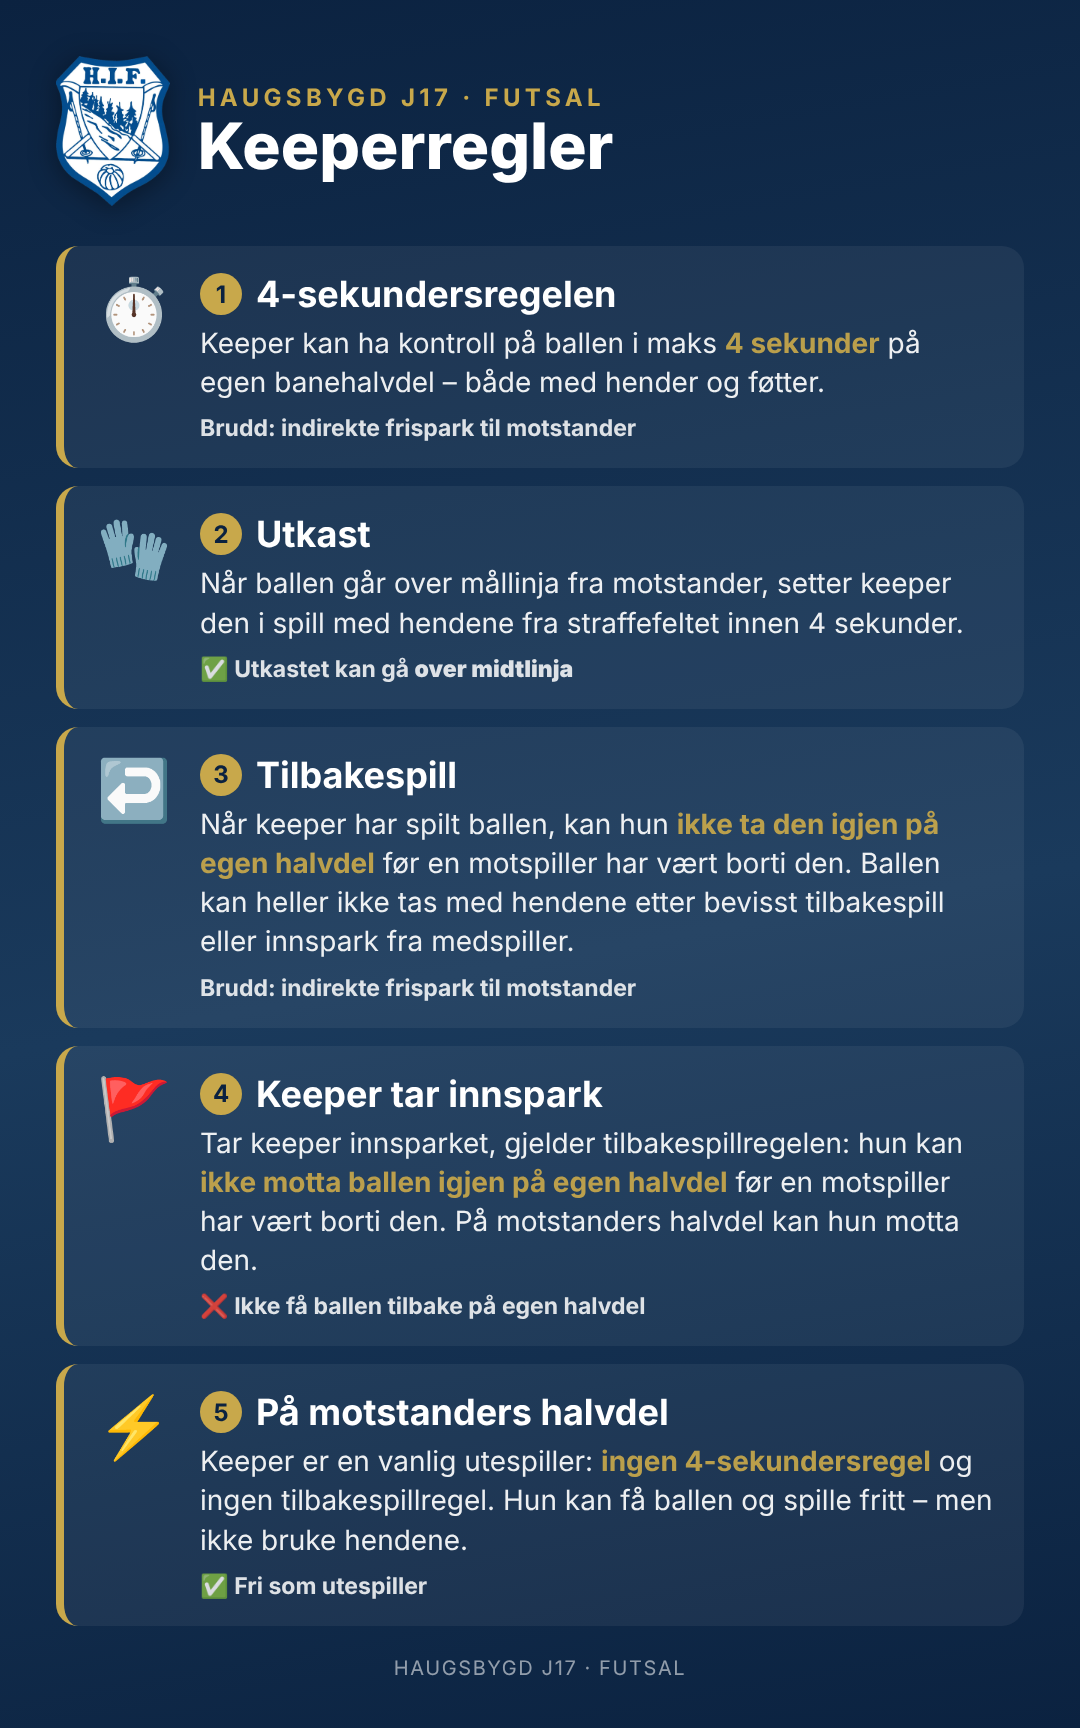
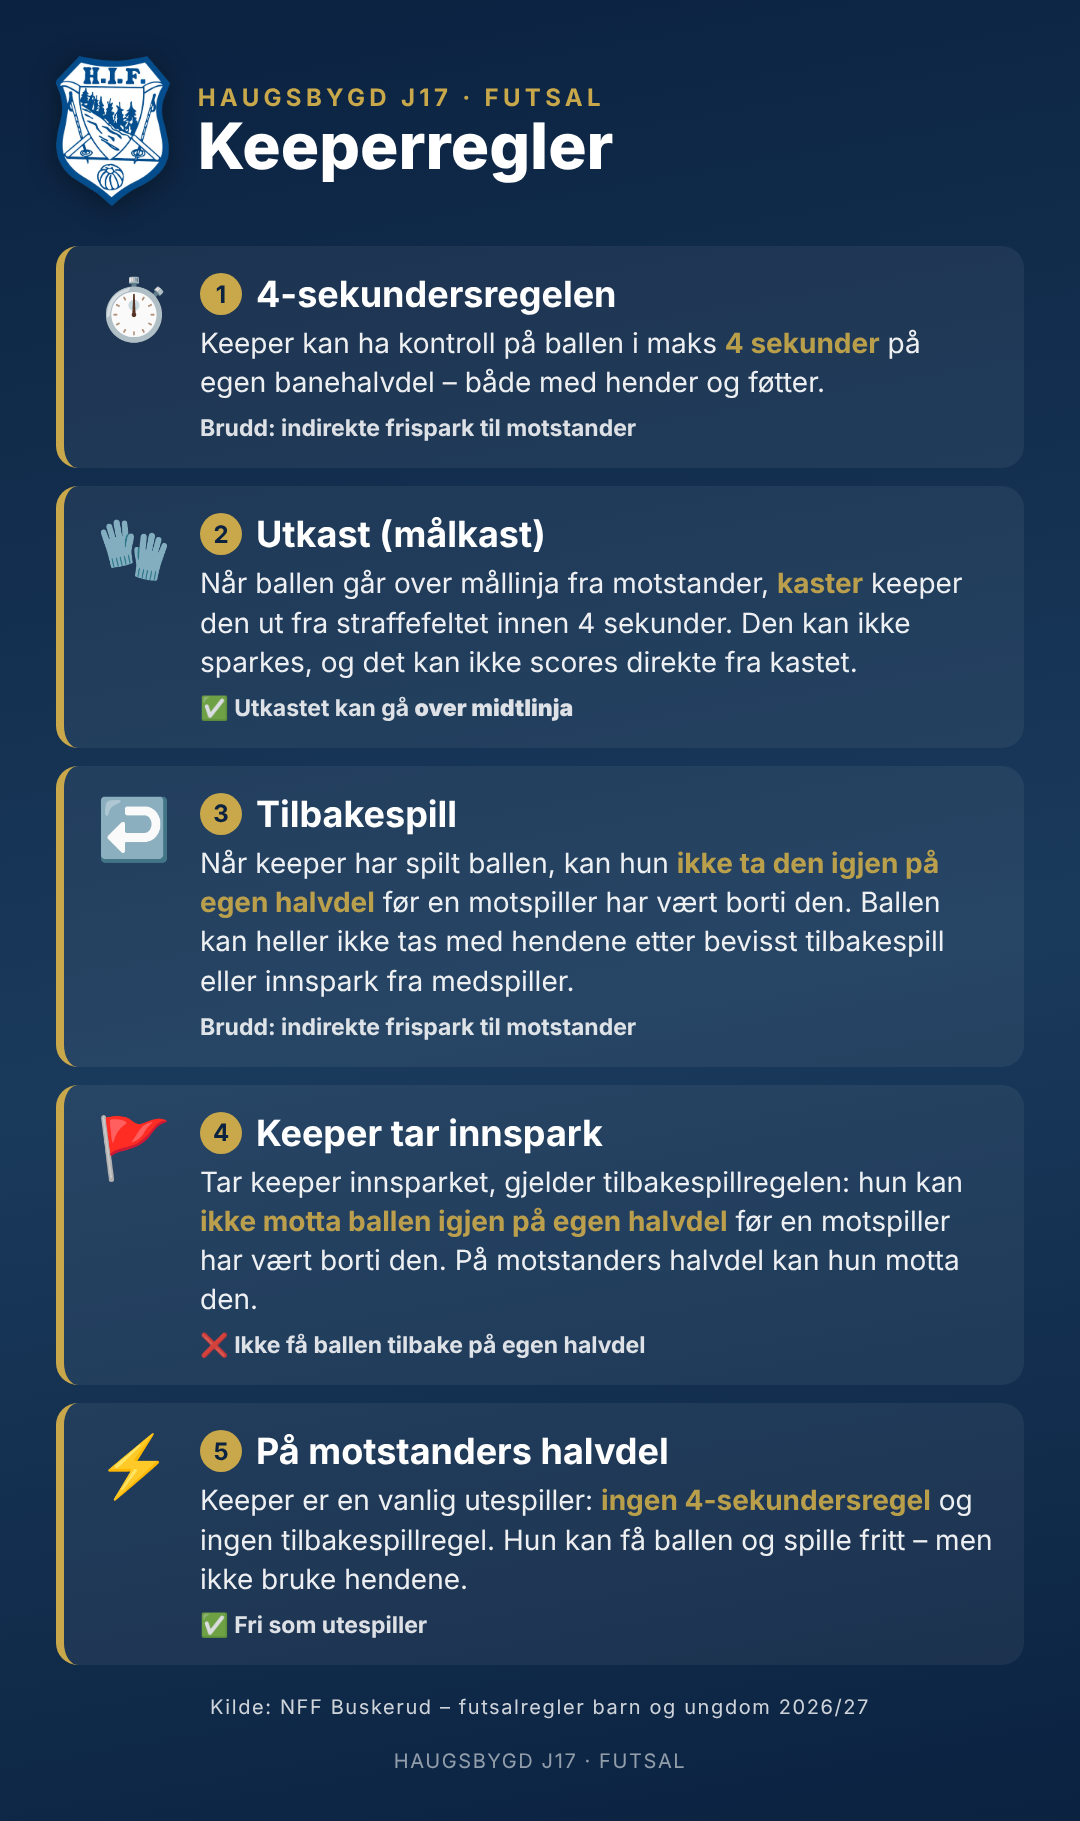
Futsal: keeperregler kontrollert mot NFF Buskerud sine regler
Claude-Session: https://claude.ai/code/session_01Nvhq4Q2RLYu4qK8aiup1MC

diff --git a/futsal/render.js b/futsal/render.js
@@ -180,14 +180,14 @@ function lag() {
 function keeper() {
   const regler = [
     ['⏱', '4-sekundersregelen', 'Keeper kan ha kontroll på ballen i maks <b>4 sekunder</b> på egen banehalvdel – både med hender og føtter.', 'Brudd: indirekte frispark til motstander'],
-    ['🧤', 'Utkast', 'Når ballen går over mållinja fra motstander, setter keeper den i spill med hendene fra straffefeltet innen 4 sekunder.', '✅ Utkastet kan gå <b>over midtlinja</b>'],
+    ['🧤', 'Utkast (målkast)', 'Når ballen går over mållinja fra motstander, <b>kaster</b> keeper den ut fra straffefeltet innen 4 sekunder. Den kan ikke sparkes, og det kan ikke scores direkte fra kastet.', '✅ Utkastet kan gå <b>over midtlinja</b>'],
     ['↩', 'Tilbakespill', 'Når keeper har spilt ballen, kan hun <b>ikke ta den igjen på egen halvdel</b> før en motspiller har vært borti den. Ballen kan heller ikke tas med hendene etter bevisst tilbakespill eller innspark fra medspiller.', 'Brudd: indirekte frispark til motstander'],
     ['🚩', 'Keeper tar innspark', 'Tar keeper innsparket, gjelder tilbakespillregelen: hun kan <b>ikke motta ballen igjen på egen halvdel</b> før en motspiller har vært borti den. På motstanders halvdel kan hun motta den.', '❌ Ikke få ballen tilbake på egen halvdel'],
     ['⚡', 'På motstanders halvdel', 'Keeper er en vanlig utespiller: <b>ingen 4-sekundersregel</b> og ingen tilbakespillregel. Hun kan få ballen og spille fritt – men ikke bruke hendene.', '✅ Fri som utespiller'],
   ];
   const kort = regler.map(([ikon, tittel, tekst, merk], i) => `<div class="regel"><div class="ikon">${ikon}</div><div class="body">
 <h2><span>${i + 1}</span>${tittel}</h2><div class="rt">${tekst}</div><div class="merk">${merk}</div></div></div>`).join('');
-  return page('Haugsbygd J17 · Futsal', 'Keeperregler', kort);
+  return page('Haugsbygd J17 · Futsal', 'Keeperregler', kort + '<footer style="opacity:.8">Kilde: NFF Buskerud – futsalregler barn og ungdom 2026/27</footer>');
 }
 
 // Hvile fra kampslutt til neste avspark, for oss og motstanderen i hver av våre kamper.
